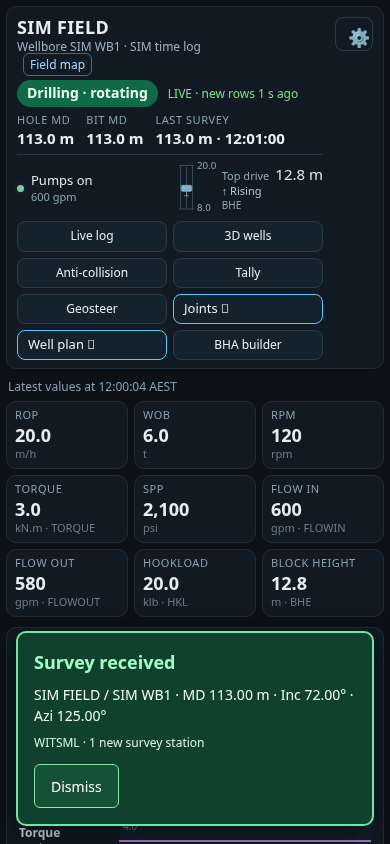
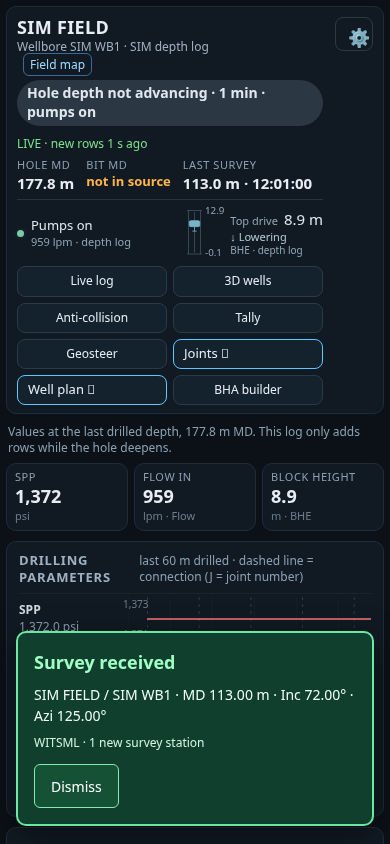
Separate BHE stroke, MD connection spacing and actual joint length

diff --git a/drilling/opsnow.js b/drilling/opsnow.js
@@ -3,6 +3,7 @@
 // reading with bounded calls (one at a time). Settings and diagnostics stay behind the gear button.
 import * as WPL from './opsnow_wellplans.js?v=dr1115';
 import * as C from './opsnow_core.js?v=re1115';
+import {connectionRows, jointMetrics} from './opsnow_joint_metrics.mjs?v=joints1118';
 import * as W from './opsnow_wire.js?v=re1115';
 import * as VW from './opsnow_views.js?v=re1115';
 import * as A from './opsnow_ac.js?v=re1115';
@@ -65,6 +66,7 @@ async function selectWellbore(b) {
   await readSurvey();
   if (S.timeLog && S.timeLog !== S.log) await readBit();
 }
+function blockConnections(rows,map){const normalized=connectionRows(rows,map);return normalized?C.connectionsFromBlock(normalized.rows,normalized.map):[];}
 function window0(log) {
   if (log.time) { const end = Date.parse(log.end); return `<startDateTimeIndex>${new Date(end - WINDOW_MS).toISOString()}</startDateTimeIndex>`; }
   return `<startIndex uom="${C.xa(log.indexUom || 'm')}">${Math.max(log.start ?? 0, (log.end ?? 0) - WINDOW_M).toFixed(2)}</startIndex>`;
@@ -457,7 +459,7 @@ function render() {
   S.ac = S.branches && S.bitPos && actB ? C.antiCollision(S.branches, S.wb.name, S.bitPos) : null;
   if (PAGE === 'wellplan') { const lastSv = S.traj?.stations?.at(-1); $('onLastSv').textContent = lastSv ? fmt(lastSv.md, 1) + ' m · ' + C.aest(Date.parse(lastSv.t)).replace(' AEST', '') : '—'; WP.refresh(); renderSettings(); return; }
   if (PAGE === 'joints') { // joints page: header + the Joints dashboard only
-    const conns = L && !L.time ? C.connectionsFromBlock(rows, S.map) : []; S.conns = conns; S.jointNo = C.jointNumber(conns, C.joints(conns, holeMd).median, S.bitMd, S.tally);
+    const conns = L && !L.time ? blockConnections(rows, S.map) : []; S.conns = conns; S.jointNo = C.jointNumber(conns, C.joints(conns, holeMd).median, S.bitMd, S.tally);
     const lastSv = S.traj?.stations.at(-1); $('onLastSv').textContent = lastSv ? fmt(lastSv.md, 1) + ' m · ' + C.aest(Date.parse(lastSv.t)).replace(' AEST', '') : '—';
     VW.drawJoints(); renderSettings(); return;
   }
@@ -483,7 +485,7 @@ function render() {
   // trends: depth logs vs MD (last 60 m), time logs vs time (last 2 h)
   const xEnd = rows.at(-1)?.[0], x0 = L?.time ? xEnd - TREND_MS : xEnd - TREND_M;
   const win = Number.isFinite(xEnd) ? rows.filter(r => r[0] >= x0) : [];
-  const conns = L && !L.time ? C.connectionsFromBlock(rows, S.map) : []; S.conns = conns;
+  const conns = L && !L.time ? blockConnections(rows, S.map) : []; S.conns = conns;
   $('onTrendAxis').textContent = Number.isFinite(xEnd) ? (L.time ? 'last 2 h to ' + C.aest(xEnd) : 'last ' + TREND_M + ' m drilled · dashed line = connection (J = joint number)') : '';
   for (const [k, n] of TILES) {
     const box = $('onC_' + k).parentElement, ch = S.map[k]; box.hidden = !ch;
@@ -497,16 +499,16 @@ function render() {
     const [i0, i1] = C.sliceByIndex(rows, S.hoverMd - 0.05, S.hoverMd + 0.05); const r = rows[Math.min(i1 - 1, i0 + 1)] || rows.at(-1);
     $('onTrendRead').textContent = fmt(r[0], 1) + ' m MD · ' + TILES.filter(([k]) => S.map[k]).map(([k, n]) => { const v = C.value(r[S.map[k].col], S.map[k]); return n + ' ' + (v == null ? '—' : fmt(v, Math.abs(v) < 100 ? 1 : 0)) + ' ' + S.map[k].unit; }).join(' · ');
   } else $('onTrendRead').textContent = 'Hover or touch a chart to read values at a depth.';
-  // joint progress: drill-down per joint measured from block travel (median of the last connections); 13 m nominal when too few
-  const J = J0, JN = S.jointNo;
+  // Target joint length is from the tally or project nominal; MD spacing is separate.
+  const J = J0, JN = S.jointNo, metric = jointMetrics({summary:J,rows,blockChannel:S.map.bh,tally:S.tally,jointNumber:JN,nominal:NOMINAL_JOINT_M});
   $('onJointNo').textContent = JN?.n != null ? '#' + JN.n + (JN.kind === 'estimated' ? ' (est.)' : ' (tally)') : '';
-  $('onJointNo').title = JN?.kind === 'estimated' ? JN.seen + ' connections seen in this wellbore\'s log + about ' + JN.above + ' joints already in the hole at the first one (first connection MD ÷ measured joint). Load a tally for the exact number.' : JN?.kind === 'tally' ? 'From the loaded tally (' + S.tallyName + ')' : '';
+  $('onJointNo').title = JN?.kind === 'estimated' ? JN.seen + ' connections seen in this wellbore\'s log + about ' + JN.above + ' joints already in the hole at the first one (first connection MD ÷ observed connection spacing). Load a tally for the exact number.' : JN?.kind === 'tally' ? 'From the loaded tally (' + S.tallyName + ')' : '';
   if (J.current) {
-    const len = J.median && J.list.length >= 5 ? J.median : NOMINAL_JOINT_M, pct = Math.min(100, J.current.drilled / len * 100);
-    $('onJointBar').style.width = pct + '%'; $('onJointDone').textContent = fmt(J.current.drilled, 1) + ' / ' + fmt(len, 1) + ' m';
-    $('onJointRange').textContent = 'from ' + fmt(J.current.start, 1) + ' m · next connection ≈ ' + fmt(J.current.start + len, 1) + ' m';
-    $('onJointNote').textContent = J.median ? 'measured ' + fmt(J.median, 1) + ' m per joint (block travel) · nominal ' + NOMINAL_JOINT_M + ' m' : '';
-    $('onJoints').innerHTML = J.list.slice(-4).reverse().map((j, i) => `<li><span>${JN?.n != null ? 'J' + (JN.n - 1 - i) + ' · ' : ''}${fmt(j.start, 1)} → ${fmt(j.end, 1)} m</span><b>${fmt(j.length, 1)} m</b></li>`).join('');
+    const len = metric.length, pct = Math.min(100, J.current.drilled / len * 100);
+    $('onJointBar').style.width = pct + '%'; $('onJointDone').textContent = fmt(J.current.drilled, 1) + ' / ' + fmt(len, 1) + ' m · ' + metric.basis;
+    $('onJointRange').textContent = 'from ' + fmt(J.current.start, 1) + ' m MD · expected connection ≈ ' + fmt(J.current.start + len, 1) + ' m MD' + (metric.overdue ? ' · connection may be missed' : '');
+    $('onJointNote').textContent = [metric.spacing!=null?'connection spacing '+fmt(metric.spacing,1)+' m MD':'',metric.travel!=null?'observed BHE travel '+fmt(metric.travel,1)+' m':''].filter(Boolean).join(' · ');
+    $('onJoints').innerHTML = J.list.slice(-4).reverse().map((j, i) => `<li><span>${JN?.n != null ? 'J' + (JN.n - 1 - i) + ' · ' : ''}${fmt(j.start, 1)} → ${fmt(j.end, 1)} m</span><b>${fmt(j.length, 1)} m MD</b></li>`).join('');
   } else { $('onJointBar').style.width = '0'; $('onJointDone').textContent = '—'; $('onJointRange').textContent = S.map.bh ? 'no connection in window yet' : 'block height not in source'; $('onJoints').innerHTML = ''; $('onJointNote').textContent = ''; }
   // survey
   const calc = S.traj?.calc || [];

diff --git a/drilling/ops.html b/drilling/ops.html
@@ -1,3 +1,3 @@
 <!doctype html><html lang="en-AU"><head><meta charset="utf-8"><meta name="viewport" content="width=device-width,initial-scale=1,viewport-fit=cover">
 <link rel="icon" href="data:,"><title>Drilling operations · live WITSML</title><link rel="stylesheet" href="./opsnow.css?v=dr1115"></head>
-<body><noscript>This screen needs JavaScript.</noscript><script type="module" src="./opsnow.js?v=spp100"></script><script type="module" src="./bha-builder/context-launcher.js?v=1.0.2"></script></body></html>
+<body><noscript>This screen needs JavaScript.</noscript><script type="module" src="./opsnow.js?v=joints1118"></script><script type="module" src="./bha-builder/context-launcher.js?v=1.0.2"></script></body></html>

diff --git a/drilling-tests/JOINT-METRICS.md b/drilling-tests/JOINT-METRICS.md
@@ -1,0 +1,30 @@
+# BHE and joint-length comparison
+
+BHE is block position, potentially with a negative datum offset. It is not pipe
+length. The previous UI labelled the MD interval between detected BHE resets as
+measured block travel, and after five intervals silently replaced the 13 m target
+with that median MD interval. This conflated three different quantities.
+
+The dashboard now shows:
+- Drilled MD since the last detected connection, against actual tally joint length
+  when a current tally joint is identified, otherwise 13 m explicitly nominal.
+- Observed MD spacing between detected connections, labelled as connection spacing.
+- Observed BHE travel within the current detected cycle (maximum minus minimum).
+
+For example, BHE 12.9 to 8.9 m is 4 m travel; the instantaneous 8.9 m position is
+not the length of the joint. BHE -0.1 to 12.9 m is a 13 m stroke despite the offset.
+BHE in feet/cm/mm is normalized to metres before the block-jump detector. Missing
+units do not silently enter a detector expecting metres. Missing/sentinel values
+are excluded. A likely missed connection is flagged if drilled distance exceeds
+the target; source values are not rescaled to force agreement.
+
+The connection detector remains heuristic and depth-sampled. Pick-ups, reaming,
+short joints, missing rows, mechanical offsets and missed resets can affect MD
+spacing. This is not a certified pipe-length measurement. A tally remains the
+source for actual physical pipe lengths. No actual WITSML values are overwritten.
+
+Five focused regression tests plus existing tests pass (28 total). Actual Ops
+rendering at 1920x1080 and 390x844 confirms that repeated 12.3 m connection spacing
+does not change a 13 m nominal denominator, and a current 4 m BHE stroke and drilled
+MD are labelled independently. Browser transport uses local fixtures; production
+uses its existing WITSML connection. No additional network reads are introduced.
